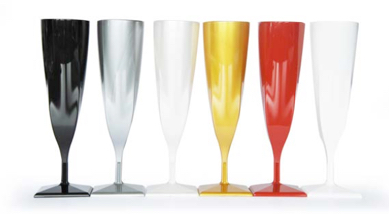
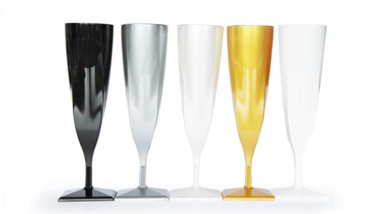
Flutes - Adjustments

diff --git a/MonsterLab-Carty-Jekyll/_includes/flutes-carty-opaque.html b/MonsterLab-Carty-Jekyll/_includes/flutes-carty-opaque.html
@@ -1,6 +1,6 @@
 <div class="ps-slide-first-radio">
     <div class="products-big-description hidden-xs">
-        <h3 class="pbd-h3"> 12 Couleurs au Choix</h3>
+        <h3 class="pbd-h3"> 11 Couleurs au Choix</h3>
         <p class="pbd-p"> Choisissez dans la gamme la couleur assortie à votre table. </p>
     </div>
 
@@ -29,12 +29,6 @@
             <div class="item">
                 <img class="cii-img" src="{{ site.url }}/assets/images/flutes-carty/opaque/fluteopaque-noir.png" alt="noir">
                 <p class="mid-text-products mid">Noir</p>
-            </div>
-
-            <div class="item">
-                <img class="cii-img" src="{{ site.url }}/assets/images/flutes-carty/opaque/fluteopaque-bordeaux.png" alt="bordeaux">
-                <p class="mid-text-products mid">Bordeaux</p>
-
             </div>
 
         </div>

diff --git a/MonsterLab-Carty-Jekyll/_includes/flutes-carty-cristal.html b/MonsterLab-Carty-Jekyll/_includes/flutes-carty-cristal.html
@@ -1,6 +1,6 @@
 <div class="ps-slide-first-radio">
     <div class="products-big-description hidden-xs">
-        <h3 class="pbd-h3"> 12 Couleurs au Choix</h3>
+        <h3 class="pbd-h3"> 11 Couleurs au Choix</h3>
         <p class="pbd-p"> Choisissez dans la gamme la couleur assortie à votre table. </p>
     </div>
 
